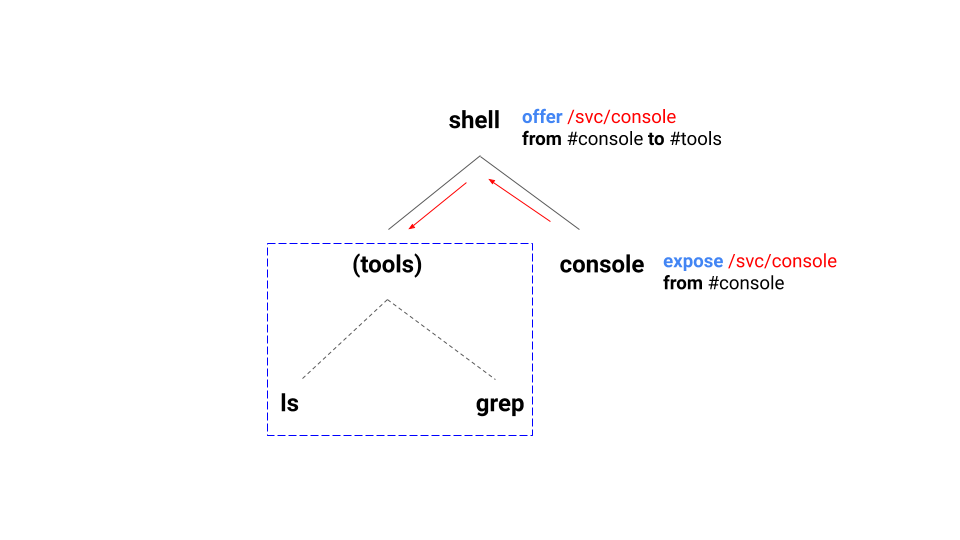
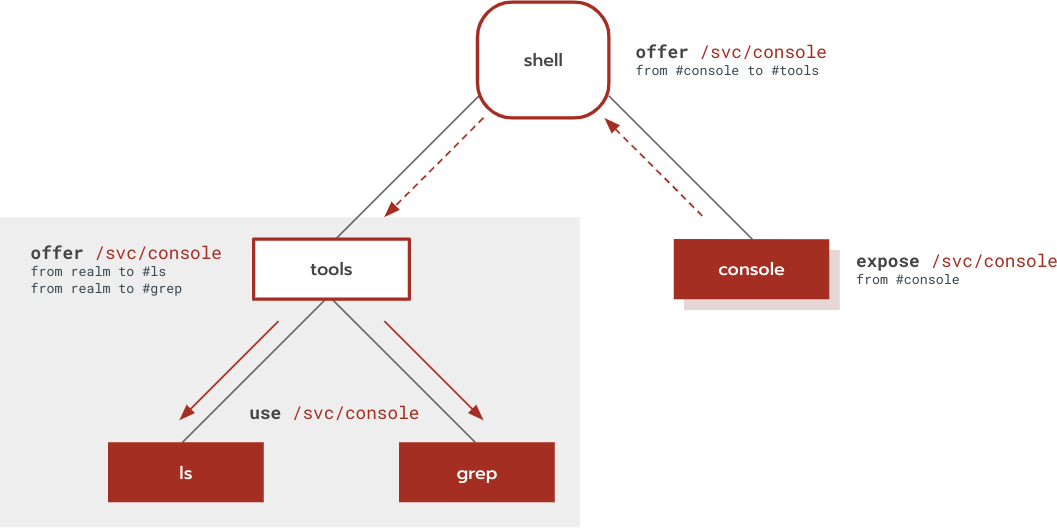
[docs] Components visual refresh
TODO //docs/concepts/components/images/topology*.png

Commit-Queue: Shai Barack <shayba@google.com>

diff --git a/docs/concepts/components/realms.md b/docs/concepts/components/realms.md
@@ -38,7 +38,7 @@ This section contains definitions for basic terminology about realms.
 
 Here is an example of a realm with a capability routed through it:
 
-![Realm example](realm_example.png)
+<br>![Realm example](realm_example.png)<br>
 
 In this example, the `shell` component has two children: `tools` and `services`.
 `services` has two children, `logger` and `echo`, while `tools` has one child
@@ -153,10 +153,10 @@ TODO: service directories as an example
 
 The following diagram illustrates a realm with a collection:
 
-![Collection example](collection_example.png)
+<br>![Collection example](collection_example.png)<br>
 
 In this example, the `shell` component declares a static child `console` and a
-collection `(tools)`, highlighted by the dashed blue rectangle (the `()`
+collection `(tools)`, highlighted by the grey background (the `()`
 notation denotes a collection). `(tools)` contains two dynamic instances, `ls`
 and `grep`. These instances are dynamic children of `shell`, scoped to
 `(tools)`. The use of a collection implies that the existence of `ls` and `grep`

diff --git a/docs/concepts/components/component_manifests.md b/docs/concepts/components/component_manifests.md
@@ -244,7 +244,7 @@ Storage capabilities are identified by types. Valid storage types are `data`,
 For an example of how these keywords interact, consider the following component
 instance tree:
 
-![Capability routing example](capability_routing_example.png)
+<br>![Capability routing example](capability_routing_example.png)<br>
 
 In this example, the `echo` component instance provides an `/svc/echo` protocol
 in its outgoing directory. This protocol is routed to the `echo_tool` component
